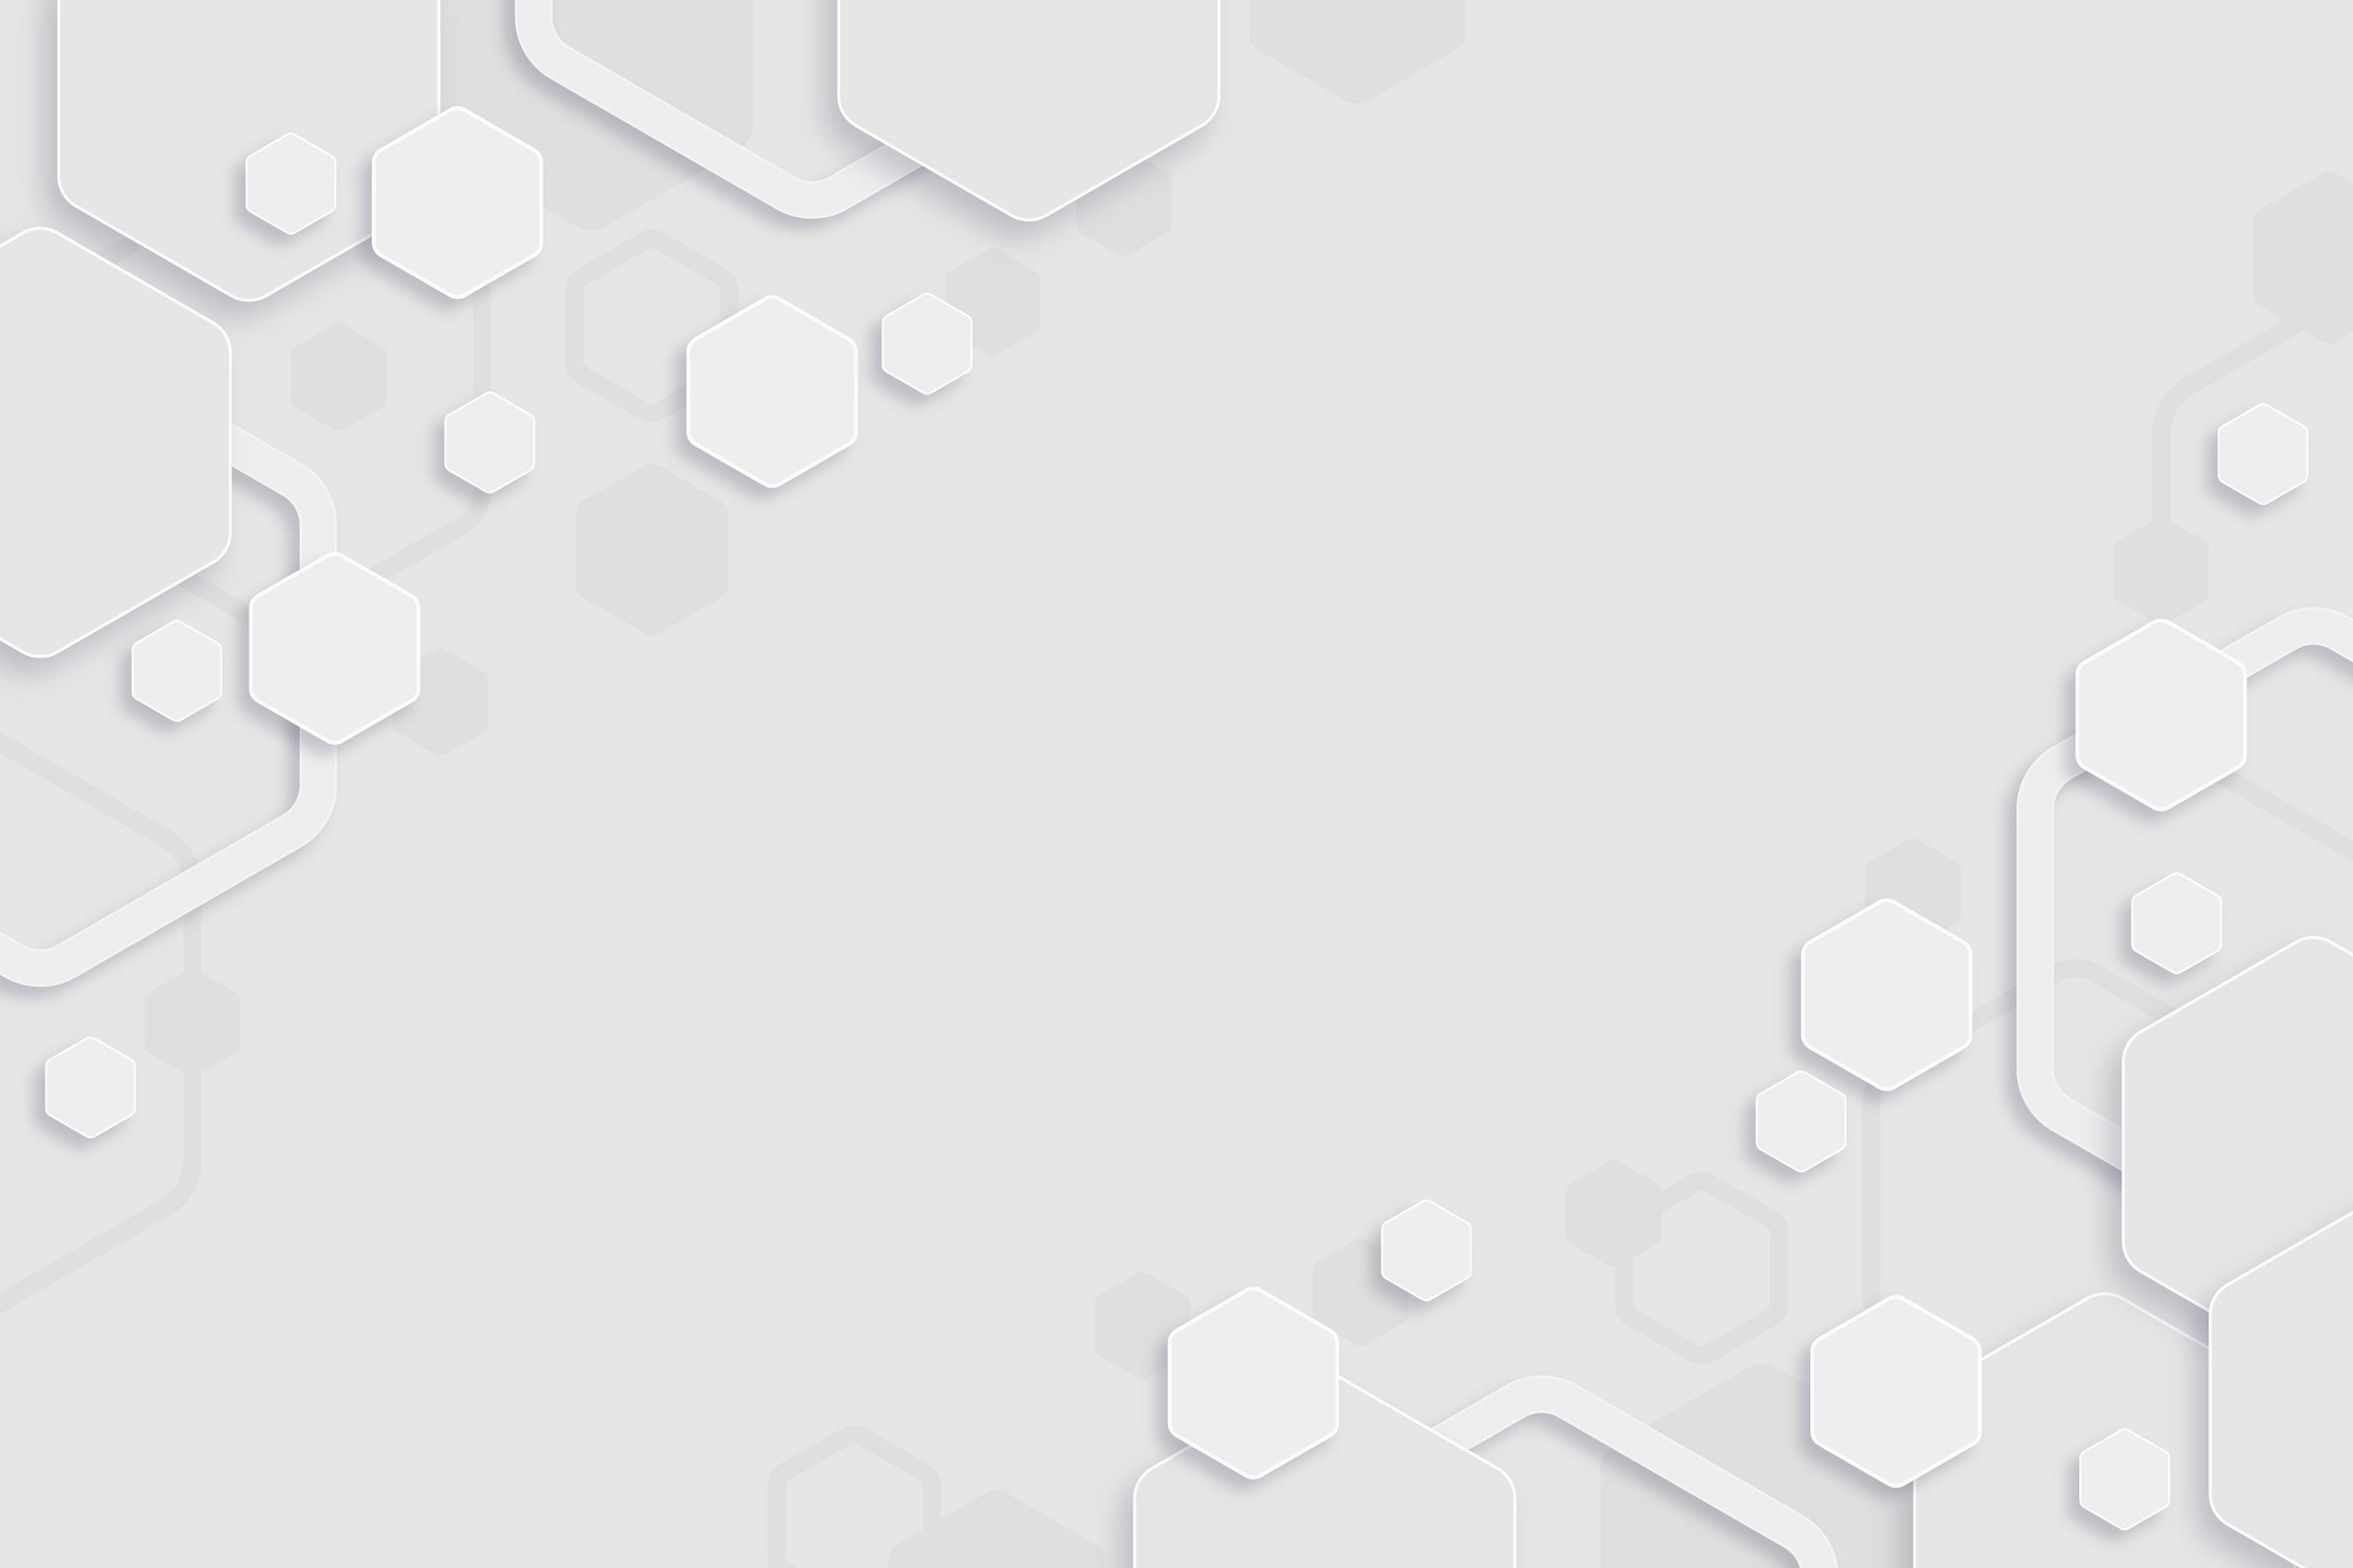
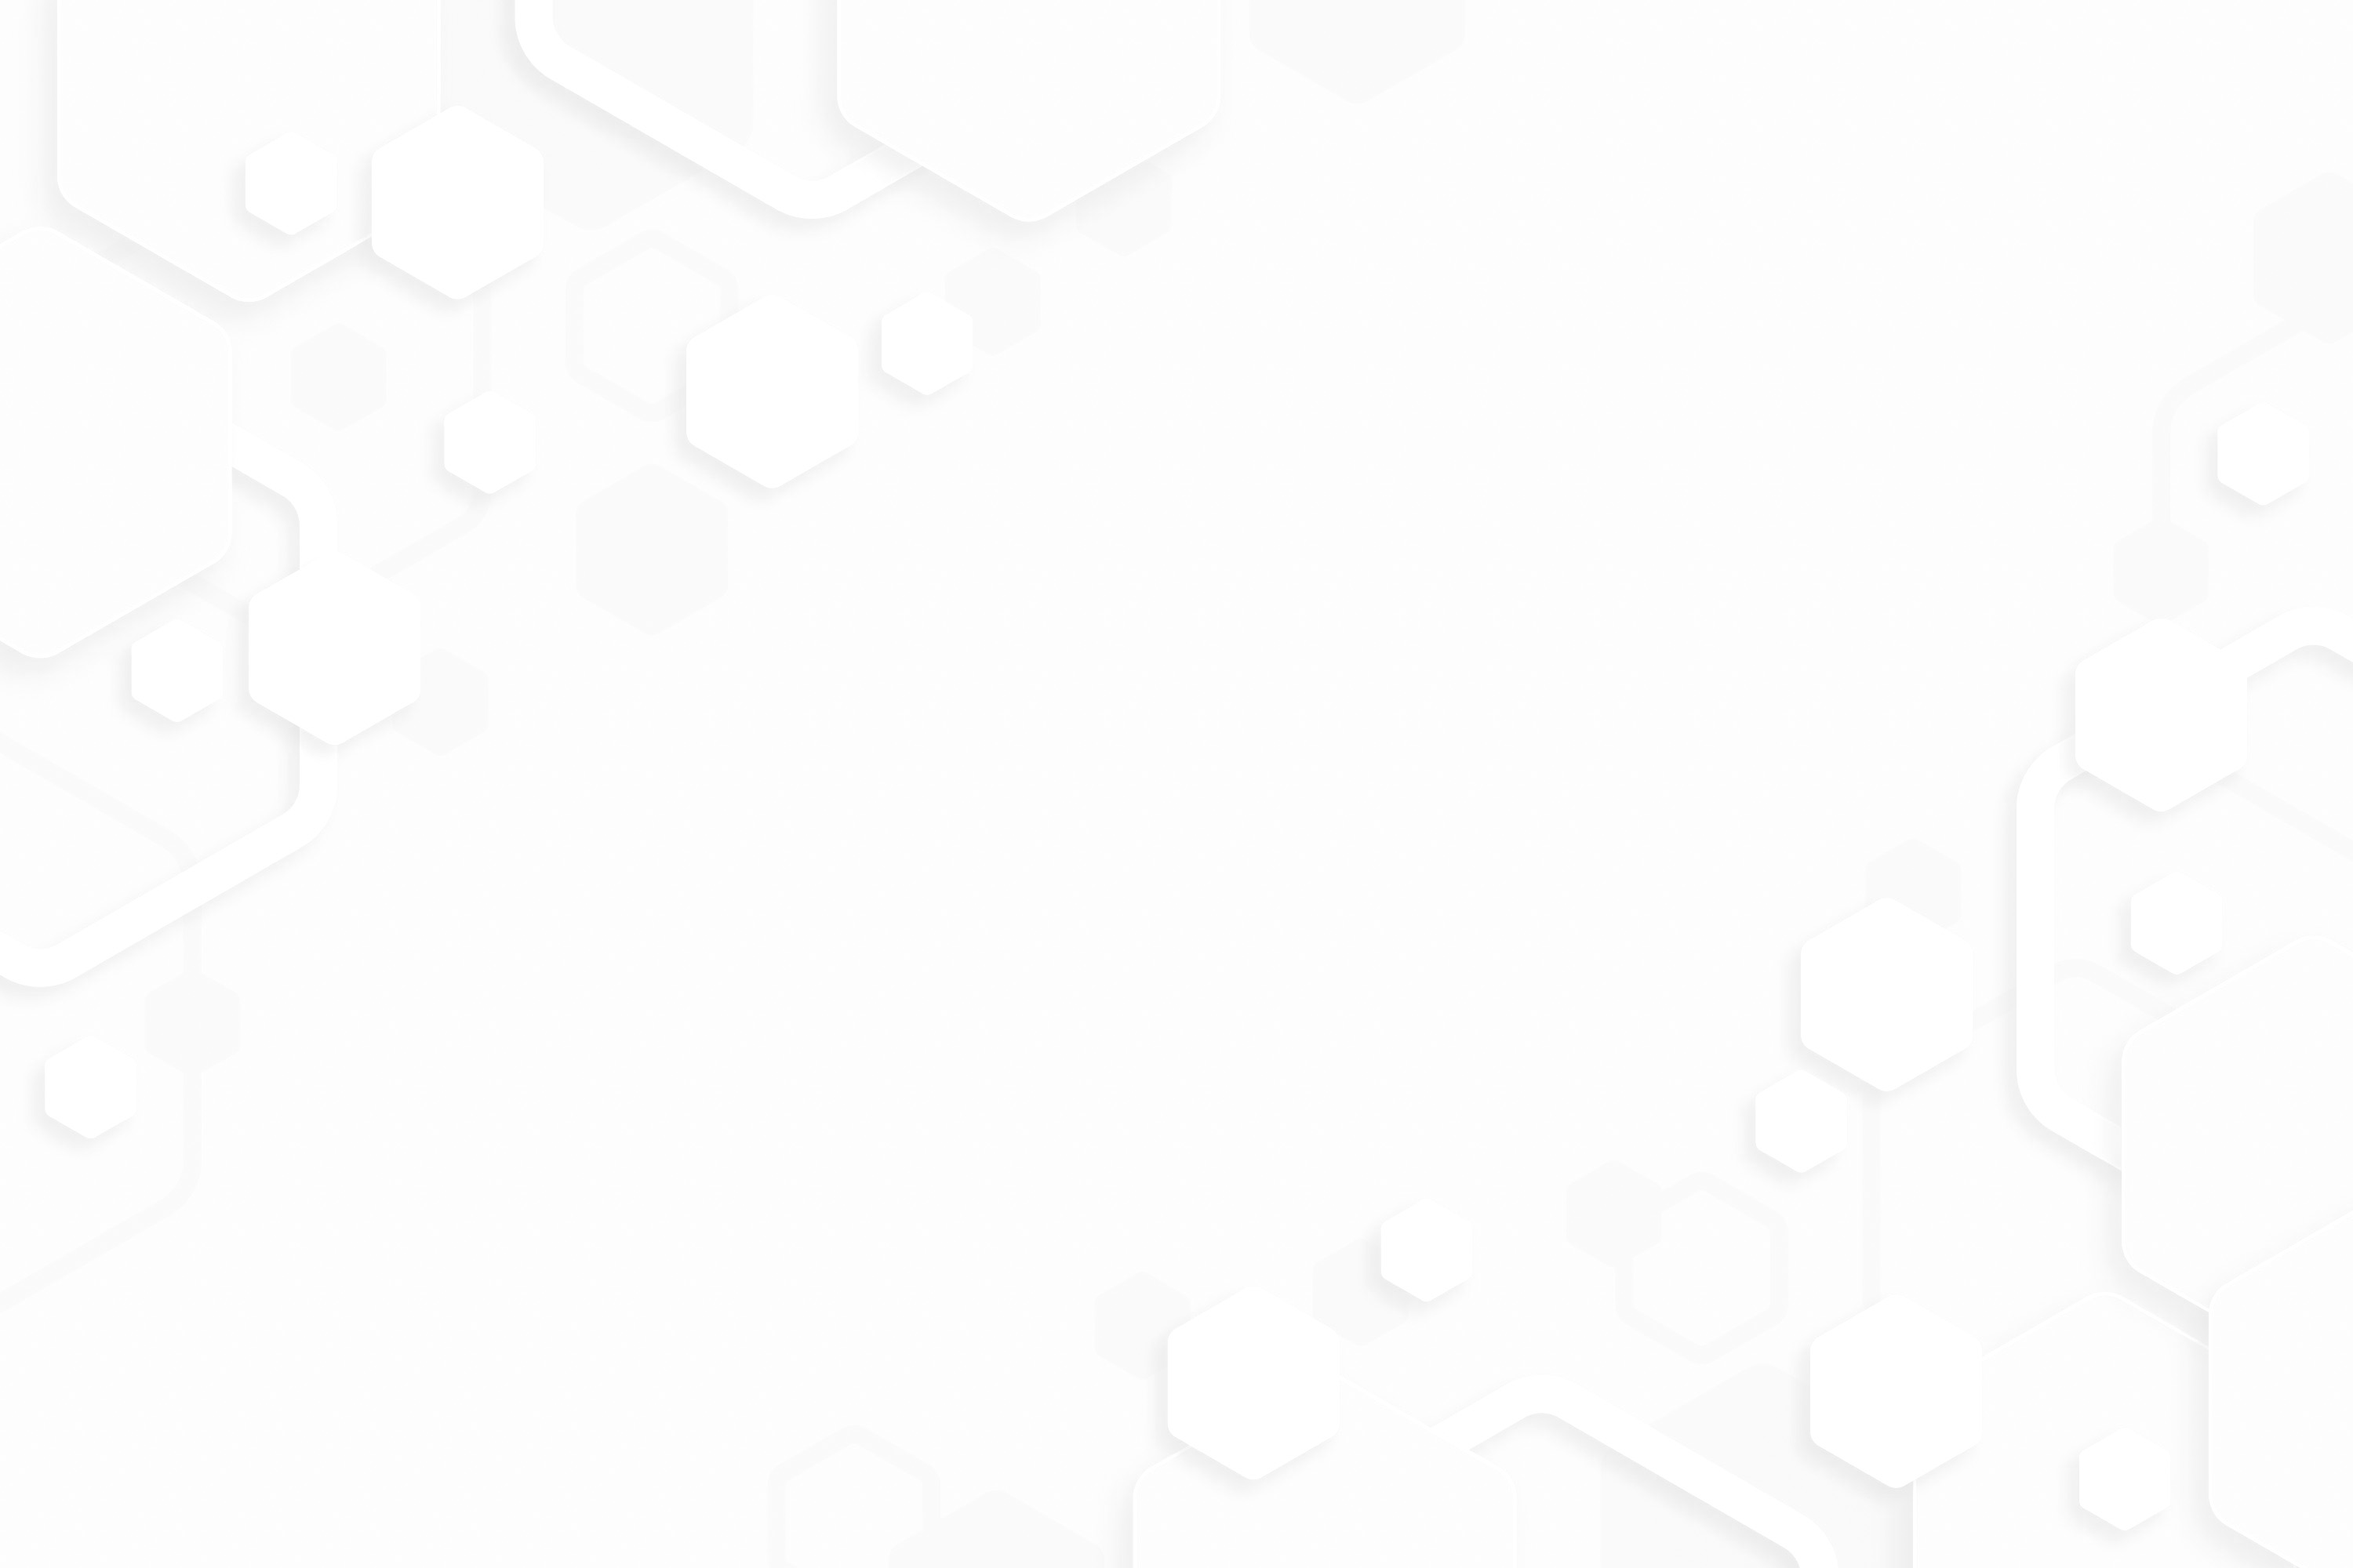
style: lighten fon_blanco.jpg with white overlay

diff --git a/src/components/Hero.tsx b/src/components/Hero.tsx
@@ -2,6 +2,7 @@ export default function Hero() {
   return (
     <section className="relative h-[40vh] sm:h-[48vh] min-h-[280px] sm:min-h-[360px] w-full overflow-hidden rounded-xl sm:rounded-2xl shadow-card border border-gray-100">
       <img src="/imagenes/fon_blanco.jpg" alt="" className="absolute inset-0 h-full w-full object-cover" />
+      <div className="absolute inset-0 bg-white/40" />
       <div className="relative z-10 h-full flex items-center px-4 sm:px-6 md:px-10 bg-white/1">
         <div className="max-w-3xl">
           <h2 className="text-2xl sm:text-3xl md:text-5xl font-semibold text-[#3a3b3d]">Documentador</h2>

diff --git a/src/components/HeroCopy.tsx b/src/components/HeroCopy.tsx
@@ -20,6 +20,7 @@ export default function HeroCopy({ showApp, onHide, isHomePage = false }: HeroCo
   return (
     <section className="relative h-auto min-h-[280px] sm:min-h-[360px] w-full overflow-hidden rounded-lg sm:rounded-2xl shadow-card border border-gray-100">
       <img src="/imagenes/fon_blanco.jpg" alt="" className="absolute inset-0 h-full w-full object-cover" />
+      <div className="absolute inset-0 bg-white/40" />
       <div className="relative z-10 w-full px-4 sm:px-6 py-4 sm:py-6 bg-white/9">
         <div className="max-w-6xl mx-auto">
           <div
